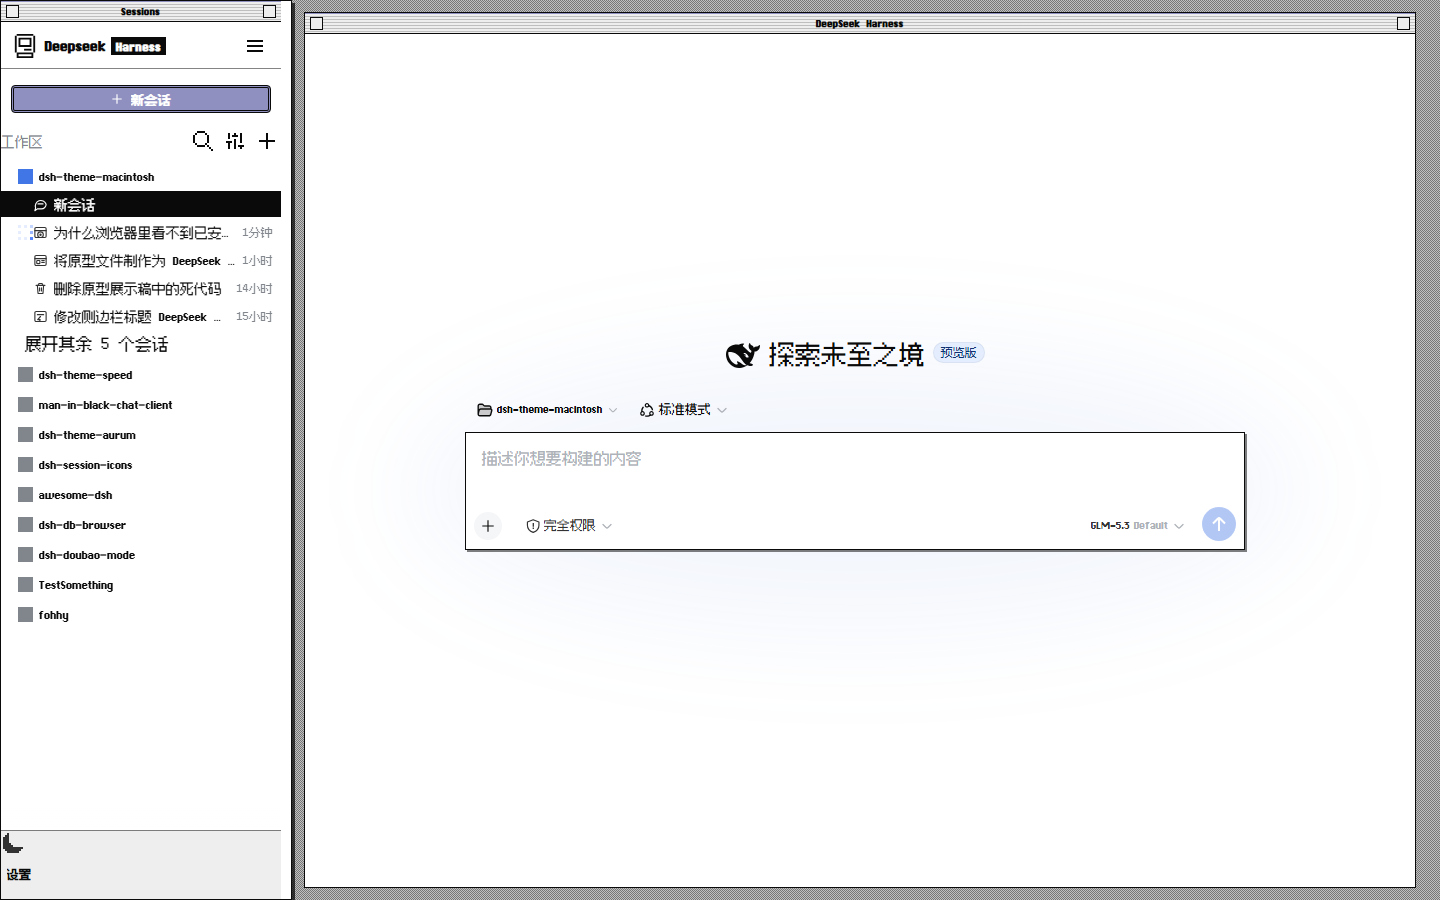
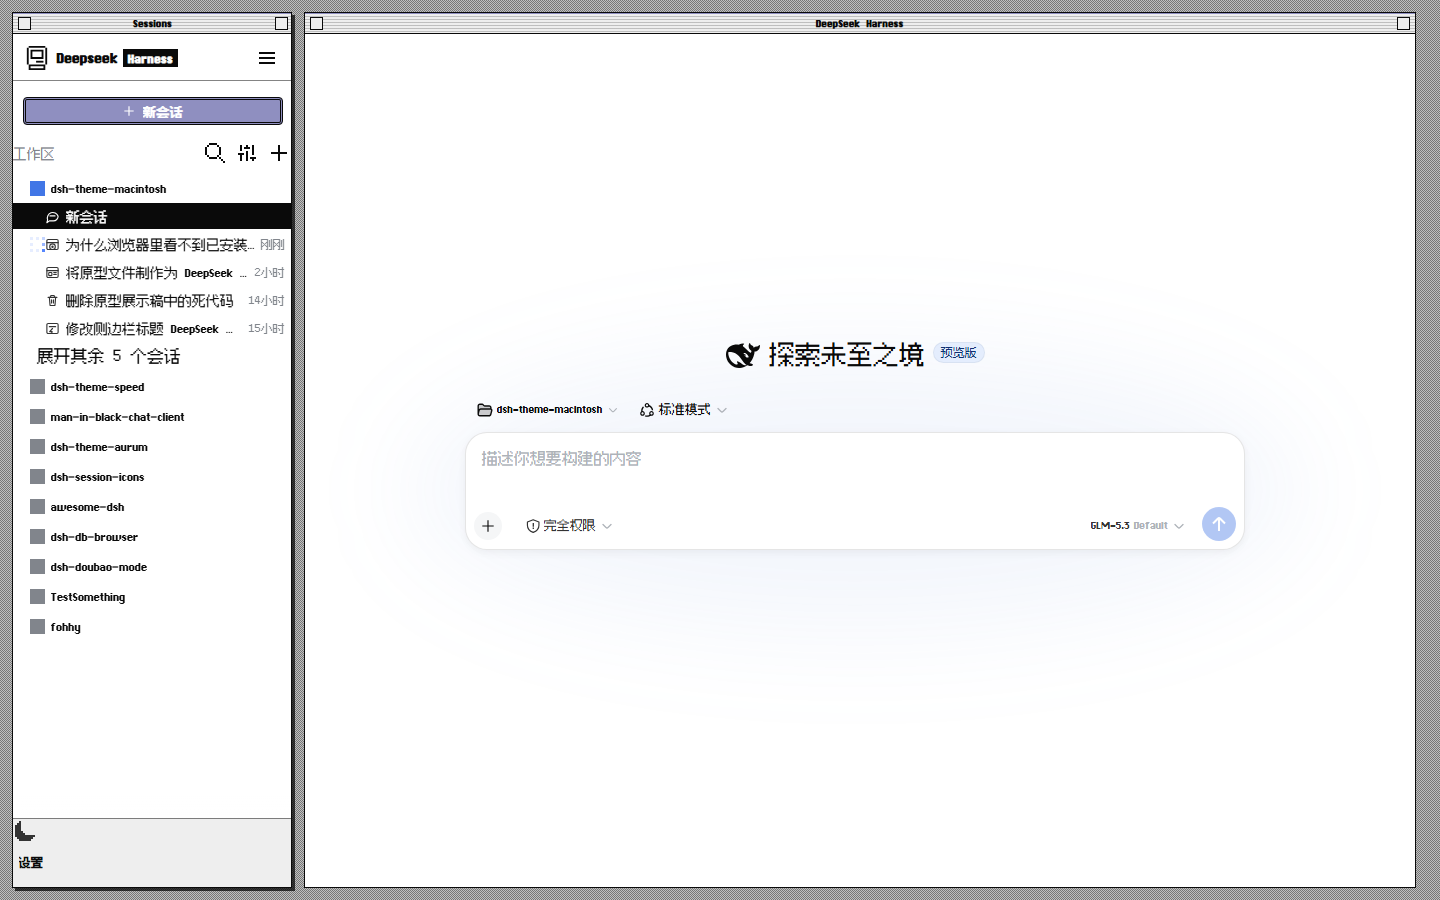
fix(mcx-精修6): 侧栏恢复浮动窗——撤掉负 margin，四边重新露出 12px 桌面缝隙（探针 12,12→888，与主窗同浮于噪点桌面）；窗内零 padding 保持

Changed region(s): [[0.0, 0.0, 0.2188, 1.0], [0.3438, 0.5911, 0.875, 0.6222]]

diff --git a/client.js b/client.js
@@ -556,9 +556,8 @@ let mcThemeOrig = undefined;
 const McSidebar = {
   css: [
     // 侧栏列 = Finder 窗（.win 语汇完整版）：rail-1 底 + 四边 1px 黑边 + 3px 硬投影 + 直角。
-    // 负 margin 抵消容器 padding（-12px 上/下/左）：侧栏贴满视口顶边与左缘，标题栏真正顶格；
-    // 与主窗之间仍留 12px 桌面缝隙（容器 gap）。整窗字体 --font-sb（§7.1）
-    `${MC_MAP.sidebar}{background:var(--mc-rail-1);border:1px solid var(--mc-border);border-radius:0;box-shadow:var(--mc-shadow-panel);margin:-12px 0 -12px -12px;font-family:var(--font-sb)}`,
+    // 桌面缝隙由容器 padding/gap 提供（四边 12px，与主窗同浮在噪点桌面上）。整窗字体 --font-sb（§7.1）
+    `${MC_MAP.sidebar}{background:var(--mc-rail-1);border:1px solid var(--mc-border);border-radius:0;box-shadow:var(--mc-shadow-panel);font-family:var(--font-sb)}`,
     // 官方侧栏根自带 padding:6px 12px —— 清零，窗内内容顶格（行级间距由各自行自带）
     `${MC_MAP.sidebarRoot}{padding:0}`,
     // 品牌行：字号 17px（finder 图标 24px 经 sidebar.brand.mark 席位注入，见 slots）；

diff --git a/src/chrome/sidebar.js b/src/chrome/sidebar.js
@@ -11,9 +11,8 @@ let mcThemeOrig = undefined;
 const McSidebar = {
   css: [
     // 侧栏列 = Finder 窗（.win 语汇完整版）：rail-1 底 + 四边 1px 黑边 + 3px 硬投影 + 直角。
-    // 负 margin 抵消容器 padding（-12px 上/下/左）：侧栏贴满视口顶边与左缘，标题栏真正顶格；
-    // 与主窗之间仍留 12px 桌面缝隙（容器 gap）。整窗字体 --font-sb（§7.1）
-    `${MC_MAP.sidebar}{background:var(--mc-rail-1);border:1px solid var(--mc-border);border-radius:0;box-shadow:var(--mc-shadow-panel);margin:-12px 0 -12px -12px;font-family:var(--font-sb)}`,
+    // 桌面缝隙由容器 padding/gap 提供（四边 12px，与主窗同浮在噪点桌面上）。整窗字体 --font-sb（§7.1）
+    `${MC_MAP.sidebar}{background:var(--mc-rail-1);border:1px solid var(--mc-border);border-radius:0;box-shadow:var(--mc-shadow-panel);font-family:var(--font-sb)}`,
     // 官方侧栏根自带 padding:6px 12px —— 清零，窗内内容顶格（行级间距由各自行自带）
     `${MC_MAP.sidebarRoot}{padding:0}`,
     // 品牌行：字号 17px（finder 图标 24px 经 sidebar.brand.mark 席位注入，见 slots）；
